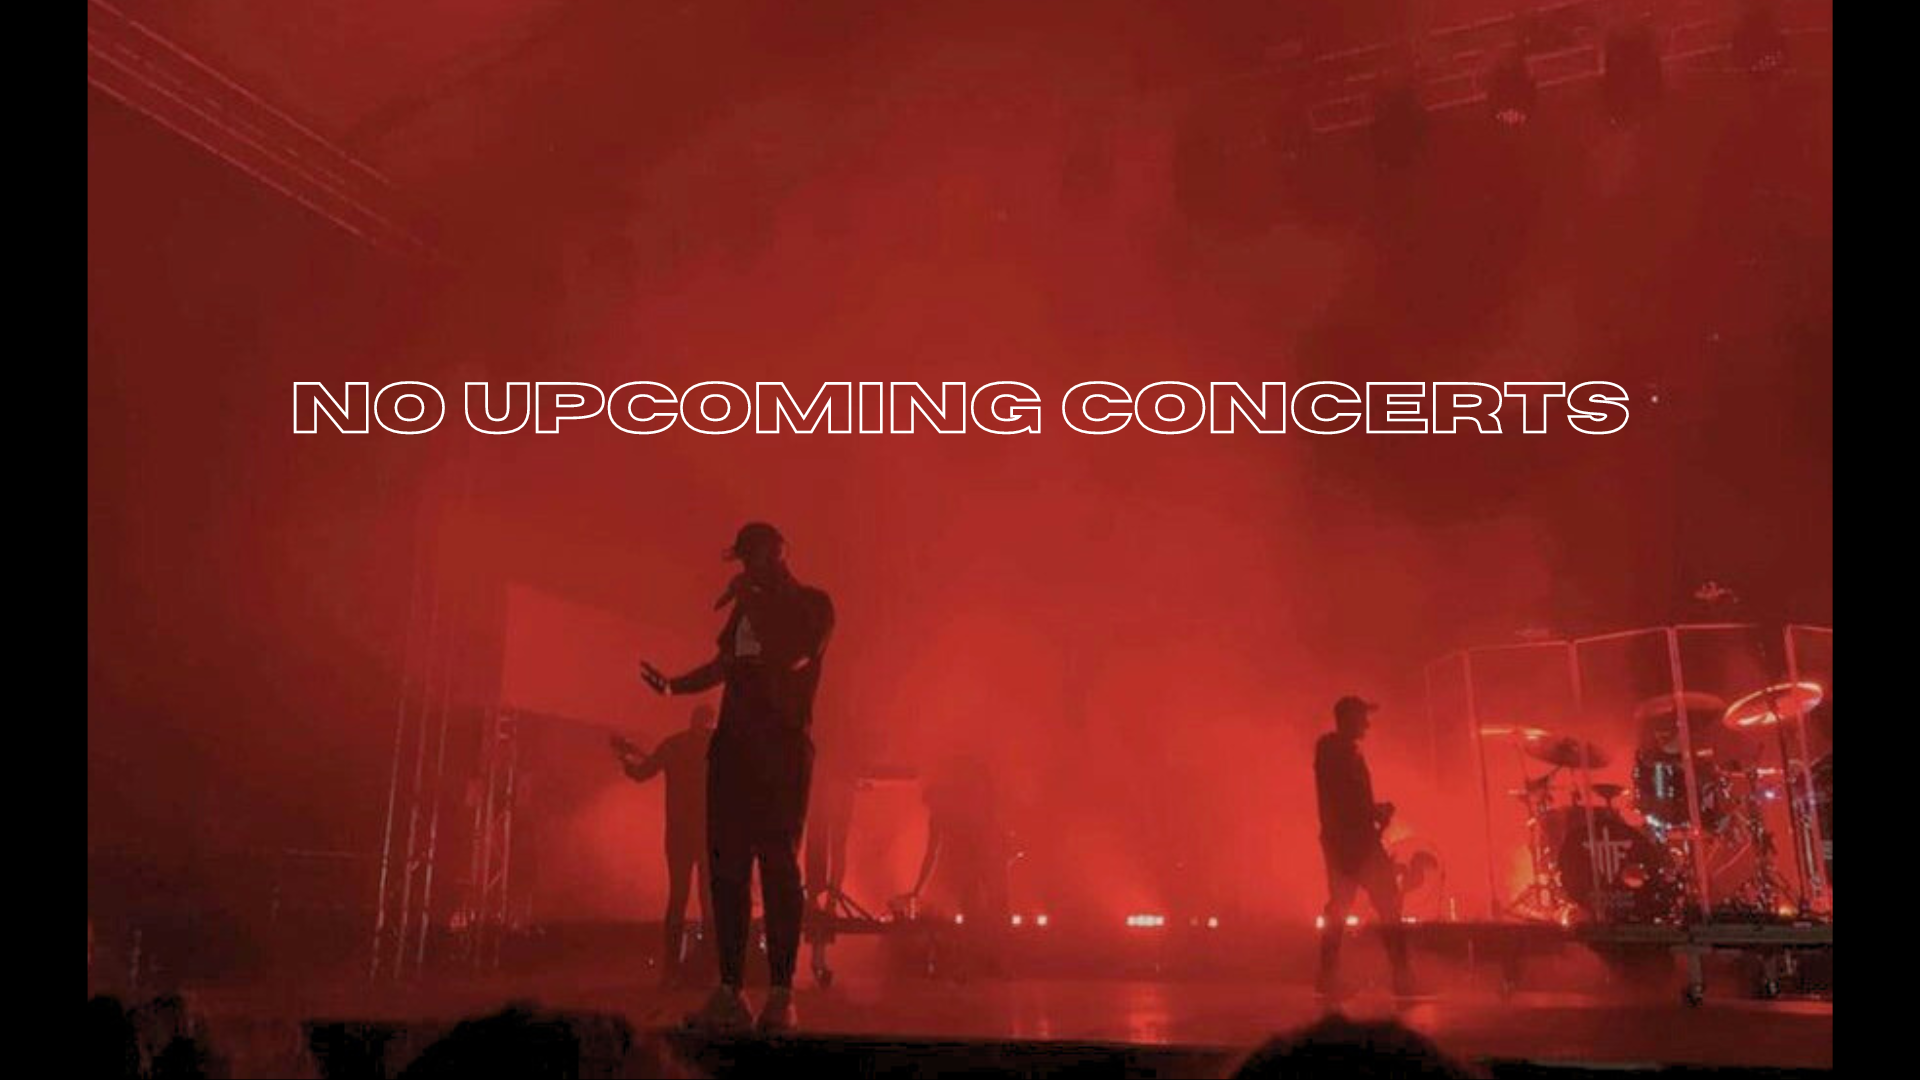
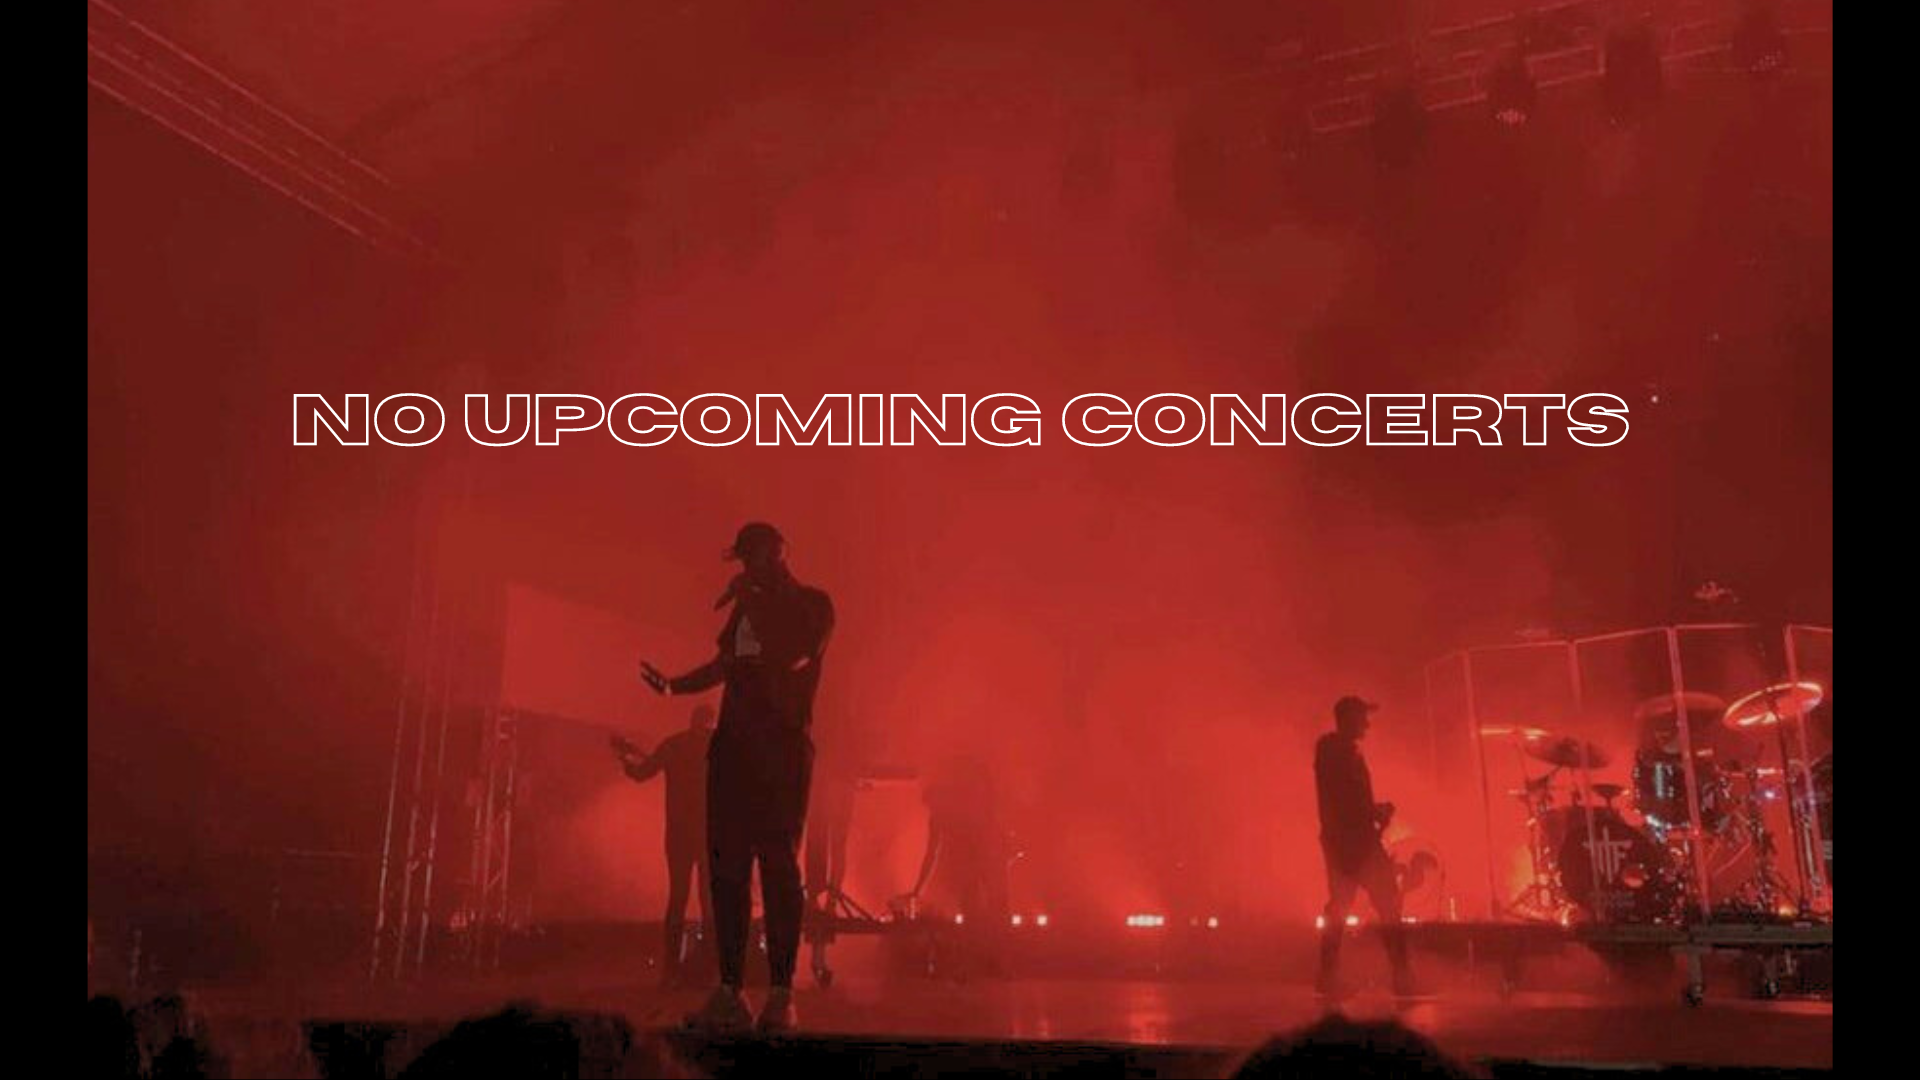
Checkpoint

Changed region(s): [[0.1562, 0.3361, 0.875, 0.4278]]

diff --git a/style.css b/style.css
@@ -41,6 +41,17 @@ nav ul li a:hover {
 
 }
 
+
+@media (max-width: 700px) {
+    nav ul li a {
+        font-size: 15px ;
+    }
+
+    nav ul li a:hover{
+        font-size: 15px;
+    }
+}
+
 .banner{
     display: flex;
     justify-content: center; 
@@ -101,6 +112,10 @@ body {
     padding-top: 55px;
 }
 
+.member:hover{
+    transform: scale(1.2);
+}
+
 .membernames{
     display: flex;
     justify-content: space-around;
@@ -141,31 +156,70 @@ a:hover{
     font-size: 35px;
     
 }
+
+@media (max-width: 1000px) {
+    .aboutusbanner{
+        width: auto;
+    }
+
+    .info{
+        font-size: 20px;
+    }
+
+    .memberinfo {
+        font-size: 15px;
+        text-align: center;
+    }
+
+    .members {
+        height: 250px;
+
+    }
+
+    .contact {
+        font-size: 25px;
+    }
+}
+
 /* End of About */
 
 /* Upcoming Concerts */
-.concert{
+.upcoming {
+    background-image: url("concert.png");
+    background-size: cover;
+    background-repeat: no-repeat;
+    background-position: center;
+    height: 70vh;
+    display: flex;
+    justify-content: center;
+    align-items: center;
+}
+
+/* .concert{
+    border: 2px fuchsia solid;
     display: flex;
     justify-content: center; 
     align-items: center; 
     max-width: 100%;
     height: 800;
     display: block;
-}
+} */
 
 .overlay {
-    position: absolute;
-    top: 80%;
+    position: relative;
+    z-index: 10;
+    /* top: 80%;
     left: 50%;
-    transform: translate(-50%, -50%);
+    transform: translate(-50%, -50%); */
     background-color: white;
     color: black;
     padding: 25px 25px;
     cursor: pointer;
     font-size: 40px;
     font-family: Anton;
-    border-bottom:50%;
-    transition: 0.5;
+    border: 0;
+    height: 110px;
+    transition: all 0.5;
 
 }
 
@@ -173,8 +227,8 @@ a:hover{
     background-color: white;
     color: firebrick;
     font-size: 45px;
-    transition: 0.3s;
-    border: 5px;
+    transition: all 0.5s;
+    border-radius: 25px;
 }
 
 
@@ -189,9 +243,17 @@ a:hover{
     font-family: Anton;
 }
 
+.prevconcerts{
+    flex-wrap: wrap;
+    display: flex;
+    justify-content: space-evenly;
+
+}
+
+.prev{
+    padding-bottom: 30px;
+}
 /* End of Previous Concerts */
-
-
 
 
 /* Catalogue */
@@ -284,8 +346,8 @@ a:hover{
     position: absolute;
     inset: 0;
     opacity: 0;
-    transition: 200ms opacity ease-in-out;
-    transition-delay: 200ms;
+    transition: 300ms opacity ease-in-out;
+    transition-delay: 300ms;
   }
   
   .slide > img {
@@ -312,32 +374,27 @@ a:hover{
     transform: translateY(-50%);
     color: rgba(255, 255, 255, .5);
     cursor: pointer;
-    border-radius: .25rem;
     padding: 0 .5rem;
     background-color: rgba(0, 0, 0, .1);
   }
   
   .carousel-button:hover,
   .carousel-button:focus {
-    color: white;
+    color: firebrick;
     background-color: rgba(0, 0, 0, .2);
   }
   
-  .carousel-button:focus {
-    outline: 1px solid black;
-  }
   
   .carousel-button.prev {
     left: 1rem;
-    color: firebrick;
   }
   
   .carousel-button.next {
     right: 1rem;
-    color: firebrick;
   }
-
   .albums{
+    display: flex;
+    flex-wrap: wrap;
     width: 100%;
     height: 600px;
   }
@@ -349,4 +406,44 @@ a:hover{
     font-size: 60px;
     text-align: center;
   }
+
+  @media (max-width: 600px) {
+    .container1 {
+      flex-direction: column;
+      height: auto;
+    }
+  
+    .latest {
+      padding: 20px;
+    }
+  
+    .box {
+      padding-right: 20px; 
+    }
+  
+    .outnow {
+      font-size: 60px;
+    }
+  
+    .available {
+      font-size: 16px;
+    }
+  
+    .carousel {
+      height: 400px; 
+    }
+  
+    .carousel-button {
+      font-size: 3rem; 
+    }
+  
+    .albums {
+      height: auto;
+    }
+  
+    .songtype {
+      font-size: 40px; 
+    }
+  }
 /* End of Discography */
+

diff --git a/tickets.html b/tickets.html
@@ -30,25 +30,28 @@
 
 <!-- Upcoming Concert -->
 <section id="homepage">
-    <div class="container">
-        <img src="concert.png" class="concert">
-        <p class="announcement">NO UPCOMING CONCERTS!</p>
+    <div class="container upcoming">
+        <!-- <img src="concert.png" class="concert"> -->
         <button class="overlay">Remind Me</button>
-
-
     </div>
 </section>
 <!-- End of Upcoming Concert -->
 
 
 <!-- Past Concerts -->
-<section id="">
-    <div>
-        <p class="prevheader">Previous Concerts</p>
-        <p>Nov 2 : Dallas, UX </p>
-
-    </div>
-</section>
+<div>
+    <p class="prevheader">Previous Concerts</p>
+</div>
+<div class="prevconcerts">
+    <img src="prev1.png" class="prev">
+    <img src="prev2.png" class="prev">
+    <img src="prev3.png" class="prev">
+    <img src="prev4.png" class="prev">
+    <img src="prev5.png" class="prev">
+    <img src="prev6.png" class="prev">
+    <img src="prev7.png" class="prev">
+    <img src="prev8.png" class="prev">
+</div>
 <!-- End of Past Concerts -->
 
 <!-- Footer -->

diff --git a/script.js b/script.js
@@ -1,35 +1,3 @@
-/*const track = document.querySelector('.track');
-const slides = Array.from(track.children);
-const nextButton = document.querySelector('.caroubutton--right');
-const prevButton = document.querySelector('.caroubutton--left');
-const nav = document.querySelector('.carou-nav');
-const dots = Array.from(nav.children);
-
-const slideWidth = slides[0].getBoundingClientRect().width;
-
-const setSlidePosition = (slide, index) => {
-    console.log('test');
-    slide.style.left = slideWidth * index + 'px';
-}
-
-slides.forEach(setSlidePosition); 
-
-/*let count =1;
-document.getElementById('rightbutton').checked = true;
-
-setInterval{ function() { 
-    nextImage(); 
-},3000}
-
-function nextImage() {
-    count++;
-    if(count>4){
-        count=1;
-    }
-}
-
-document.getElementById(''+count).checked = true; */
-
 const buttons = document.querySelectorAll("[data-carousel-button]")
 
 buttons.forEach(button => {

diff --git a/about.html b/about.html
@@ -45,9 +45,9 @@
     
 
     <div class="members">
-        <img src="member1.png">
-        <img src="member2.png">
-        <img src="member3.png">
+        <img src="member1.png" class="member">
+        <img src="member2.png" class="member">
+        <img src="member3.png" class="member">
     </div>
 
     <div class="membernames">

diff --git a/README.md b/README.md
@@ -1,2 +1,52 @@
 # my-first-repo
 my first repository
+
+Your Project's Name
+One or two paragraphs providing an overview of your project. Tell us about your project.
+
+Essentially, this part is your sales pitch.
+
+Design Process
+Provide us insights about your design process, focusing on who this website is for, what it is that they want to achieve and how your project is the best way to help them achieve these things.
+
+In particular, as part of this section we recommend that you provide a list of User Stories, with the following general structure:
+
+As a user type, I want to perform an action, so that I can achieve a goal.
+This section is also where you would share links to any wireframes, mockups, diagrams etc. that you created as part of the design process. These files should themselves either be included as a pdf file in the project itself (in an separate directory) Include the Adobe XD wireframe as a folder. You can include the XD share url.
+
+Features
+In this section, you should go over the different parts of your project, and describe each in a sentence or so.
+
+Existing Features
+Feature 1 - allows users X to achieve Y, by having them fill out Z
+...
+In addition, you may also use this section to discuss plans for additional features to be implemented in the future:
+
+Features Left to Implement
+Another feature idea
+Technologies Used
+In this section, you should mention all of the languages, frameworks, libraries, and any other tools that you have used to construct this project. For each, provide its name, a link to its official site and a short sentence of why it was used.
+
+JQuery
+The project uses JQuery to simplify DOM manipulation.
+Testing
+For any scenarios that have not been automated, test the user stories manually and provide as much detail as is relevant. A particularly useful form for describing your testing process is via scenarios, such as:
+
+Contact form:
+Go to the "Contact Us" page
+Try to submit the empty form and verify that an error message about the required fields appears
+Try to submit the form with an invalid email address and verify that a relevant error message appears
+Try to submit the form with all inputs valid and verify that a success message appears.
+In addition, you should mention in this section how your project looks and works on different browsers and screen sizes.
+
+You should also mention in this section any interesting bugs or problems you discovered during your testing, even if you haven't addressed them yet.
+
+If this section grows too long, you may want to split it off into a separate file and link to it from here.
+
+Credits
+Content
+The text for section Y was copied from the Wikipedia article Z
+Media
+The photos used in this site were obtained from ...
+Acknowledgements
+I received inspiration for this project from X
